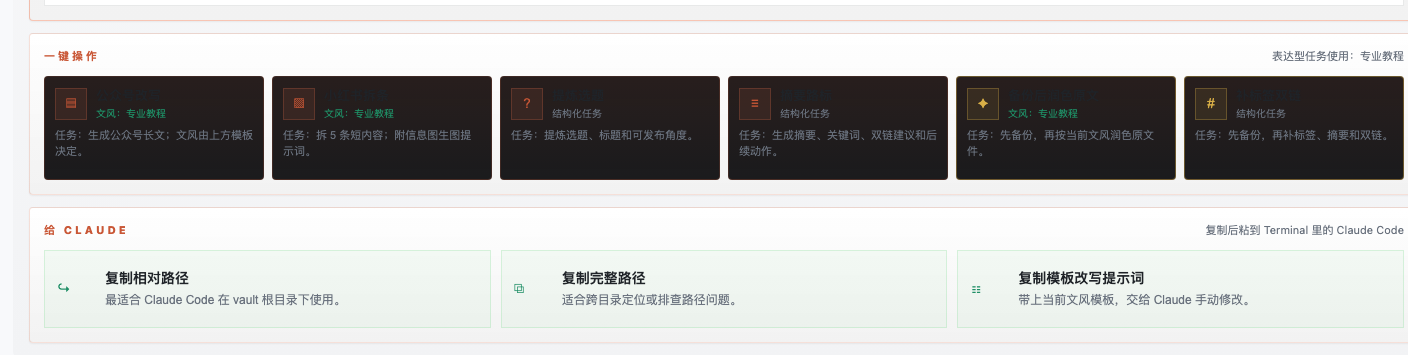
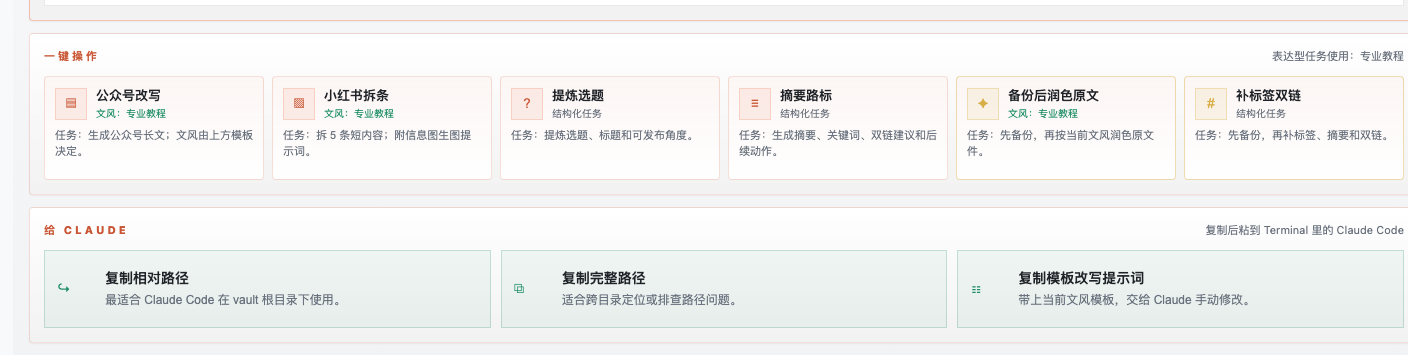
Fix theme colors for workbench cards

Changed region(s): [[0.0312, 0.2169, 1.0, 0.5268]]

diff --git a/plugin/cc-command-center/styles.css b/plugin/cc-command-center/styles.css
@@ -13,6 +13,12 @@
   --cc-preview-bg: #09090a;
   --cc-soft-bg: rgba(255, 255, 255, 0.025);
   --cc-soft-border: rgba(255, 255, 255, 0.08);
+  --cc-action-bg: linear-gradient(180deg, rgba(238, 116, 77, 0.08), rgba(255, 255, 255, 0.015)), var(--cc-panel);
+  --cc-action-hover-bg: linear-gradient(180deg, rgba(238, 116, 77, 0.12), rgba(255, 255, 255, 0.025)), var(--cc-panel);
+  --cc-copy-bg: rgba(117, 216, 136, 0.055);
+  --cc-copy-hover-bg: rgba(117, 216, 136, 0.09);
+  --cc-copy-border: rgba(117, 216, 136, 0.24);
+  --cc-copy-border-strong: rgba(117, 216, 136, 0.52);
   --cc-code-text: #ded6d0;
   --cc-body-text: #d6cec8;
   --cc-button-bg: #303033;
@@ -46,6 +52,12 @@
   --cc-preview-bg: #ffffff;
   --cc-soft-bg: rgba(31, 35, 40, 0.035);
   --cc-soft-border: rgba(31, 35, 40, 0.1);
+  --cc-action-bg: linear-gradient(180deg, rgba(201, 87, 54, 0.055), rgba(255, 255, 255, 0.72)), var(--cc-panel);
+  --cc-action-hover-bg: linear-gradient(180deg, rgba(201, 87, 54, 0.095), rgba(255, 255, 255, 0.86)), var(--cc-panel);
+  --cc-copy-bg: rgba(31, 143, 102, 0.055);
+  --cc-copy-hover-bg: rgba(31, 143, 102, 0.09);
+  --cc-copy-border: rgba(31, 143, 102, 0.22);
+  --cc-copy-border-strong: rgba(31, 143, 102, 0.46);
   --cc-code-text: #2f3338;
   --cc-body-text: #3d444d;
   --cc-button-bg: #f0f1f3;
@@ -67,6 +79,12 @@
   --cc-preview-bg: #ffffff;
   --cc-soft-bg: rgba(15, 159, 110, 0.055);
   --cc-soft-border: rgba(32, 139, 111, 0.16);
+  --cc-action-bg: linear-gradient(180deg, rgba(32, 127, 112, 0.065), rgba(255, 255, 255, 0.74)), var(--cc-panel);
+  --cc-action-hover-bg: linear-gradient(180deg, rgba(32, 127, 112, 0.11), rgba(255, 255, 255, 0.88)), var(--cc-panel);
+  --cc-copy-bg: rgba(15, 159, 110, 0.07);
+  --cc-copy-hover-bg: rgba(15, 159, 110, 0.11);
+  --cc-copy-border: rgba(32, 139, 111, 0.22);
+  --cc-copy-border-strong: rgba(32, 139, 111, 0.5);
   --cc-code-text: #25312d;
   --cc-body-text: #3e514b;
   --cc-button-bg: #e5f3ee;
@@ -319,16 +337,16 @@
   min-width: 0;
   min-height: 78px;
   padding: 12px;
-  border: 1px solid rgba(117, 216, 136, 0.24);
+  border: 1px solid var(--cc-copy-border);
   appearance: none;
-  background: rgba(117, 216, 136, 0.055);
+  background: var(--cc-copy-bg);
   color: var(--cc-text);
   text-align: left;
 }
 
 .cc-copy-card:hover:not(:disabled) {
-  border-color: rgba(117, 216, 136, 0.52);
-  background: rgba(117, 216, 136, 0.09);
+  border-color: var(--cc-copy-border-strong);
+  background: var(--cc-copy-hover-bg);
 }
 
 .cc-copy-card:disabled {
@@ -508,7 +526,7 @@
   border: 1px solid var(--cc-line);
   appearance: none;
   border-radius: 4px;
-  background: linear-gradient(180deg, rgba(238, 116, 77, 0.08), rgba(255, 255, 255, 0.015)), #171719;
+  background: var(--cc-action-bg);
   color: var(--cc-text);
   text-align: left;
   white-space: normal;
@@ -520,6 +538,7 @@
 
 .cc-action-card:hover:not(:disabled) {
   border-color: var(--cc-line-strong);
+  background: var(--cc-action-hover-bg);
   transform: translateY(-1px);
 }
 

diff --git a/CHANGELOG.md b/CHANGELOG.md
@@ -1,5 +1,10 @@
 # Changelog
 
+## 0.5.18
+
+- 修复一键操作和给 Claude 卡片没有完全跟随亮色/青绿主题的问题。
+- 移除操作卡片里的暗色背景硬编码，改为主题变量。
+
 ## 0.5.17
 
 - 修复切换文风模板后，一键操作卡片没有同步更新的问题。
